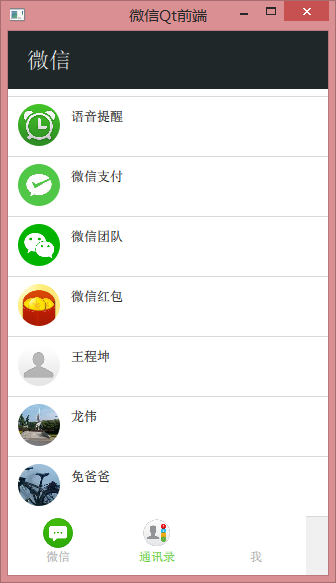
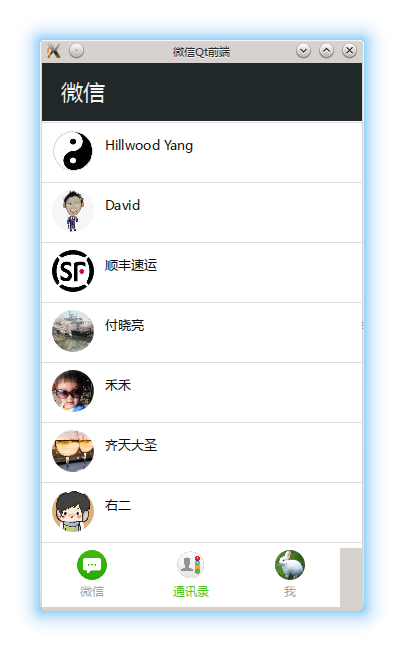
Fix v2 contact list issue

diff --git a/qml/ContactListView.qml b/qml/ContactListView.qml
@@ -19,6 +19,13 @@ Item {
 
     Contact {
         id: contactObj
+        Component.onCompleted: {
+            if (contactListView.v2) {
+                contactObj.postV2()
+            } else {
+                contactObj.post()
+            }
+        }
         onContactListChanged: {
             modContactListView.model = contactObj.contactList
         }

diff --git a/src/contact.cpp b/src/contact.cpp
@@ -1,4 +1,4 @@
-// Copyright (C) 2014 Leslie Zhai <xiang.zhai@i-soft.com.cn>
+// Copyright (C) 2014 - 2015 Leslie Zhai <xiang.zhai@i-soft.com.cn>
 
 #if QWX_DEBUG                                                                      
 #include <QFile>                                                                   
@@ -18,7 +18,6 @@ Contact::Contact(HttpPost* parent)
 #if QWX_DEBUG
     qDebug() << "DEBUG:" << __PRETTY_FUNCTION__;
 #endif
-    post();
 }
 
 Contact::~Contact() 
@@ -33,6 +32,17 @@ QList<QObject*> Contact::contactList() const { return m_contactList; }
 void Contact::post() 
 {
     QString url = WX_SERVER_HOST + WX_CGI_PATH + "webwxgetcontact?r=" + 
+        QString::number(time(NULL));
+#if QWX_DEBUG
+    qDebug() << "DEBUG:" << __PRETTY_FUNCTION__ << url;
+#endif
+    QString json = "{}";
+    HttpPost::post(url, json, true);
+}
+
+void Contact::postV2() 
+{
+    QString url = WX_V2_SERVER_HOST + WX_CGI_PATH + "webwxgetcontact?r=" + 
         QString::number(time(NULL));
 #if QWX_DEBUG
     qDebug() << "DEBUG:" << __PRETTY_FUNCTION__ << url;

diff --git a/src/contact.h b/src/contact.h
@@ -1,4 +1,4 @@
-// Copyright (C) 2014 Leslie Zhai <xiang.zhai@i-soft.com.cn>
+// Copyright (C) 2014 - 2015 Leslie Zhai <xiang.zhai@i-soft.com.cn>
 
 #ifndef CONTACT_H
 #define CONTACT_H
@@ -18,6 +18,7 @@ public:
     QList<QObject*> contactList() const;
 
     Q_INVOKABLE void post();
+    Q_INVOKABLE void postV2();
 
 Q_SIGNALS:
     void error();
